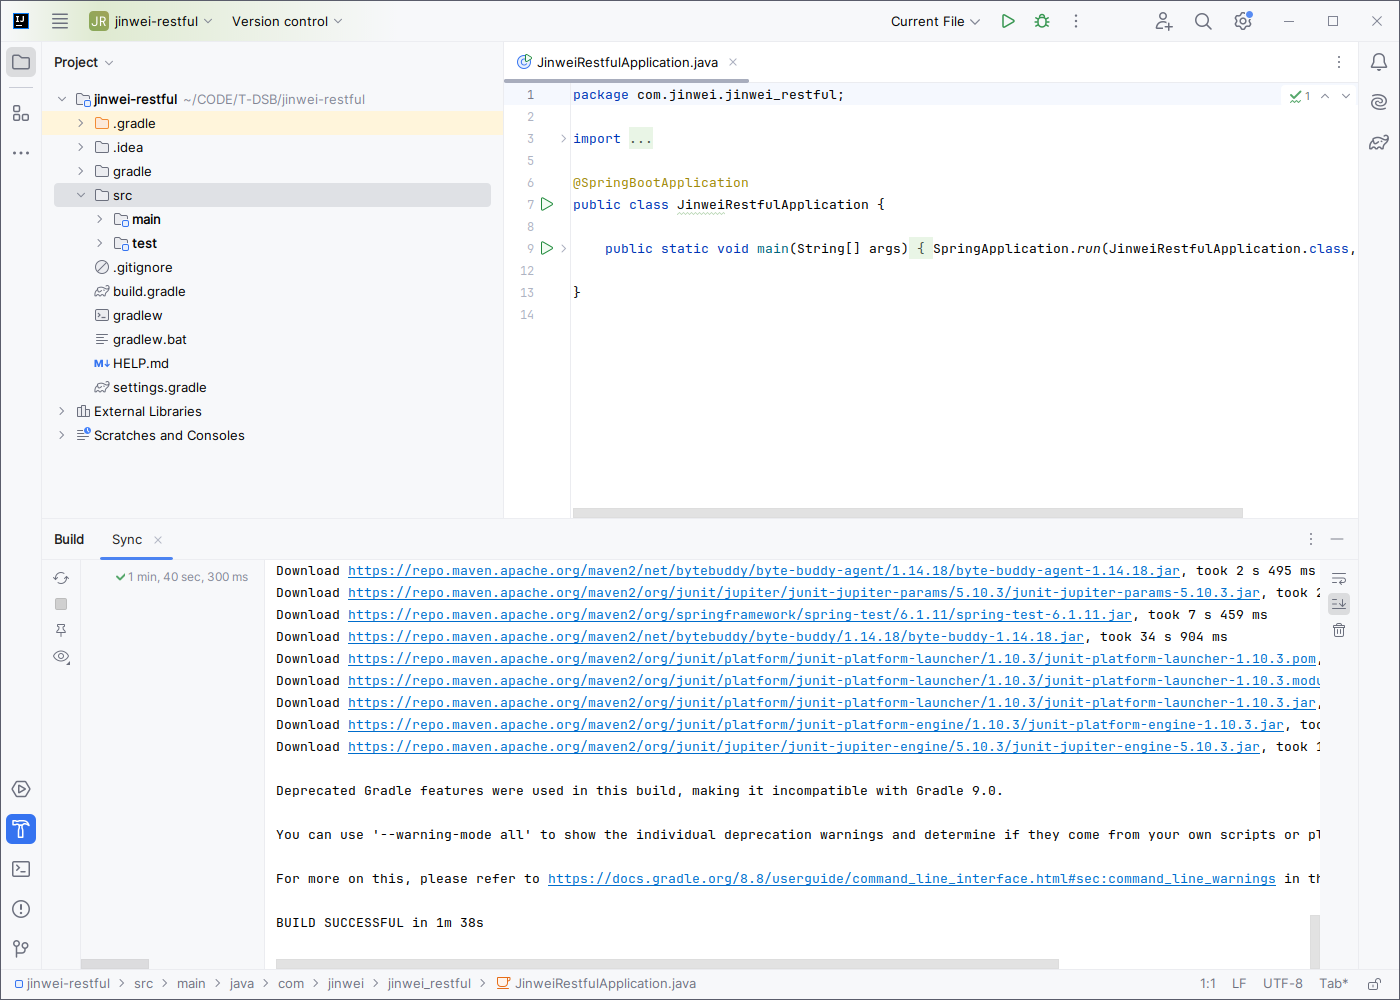
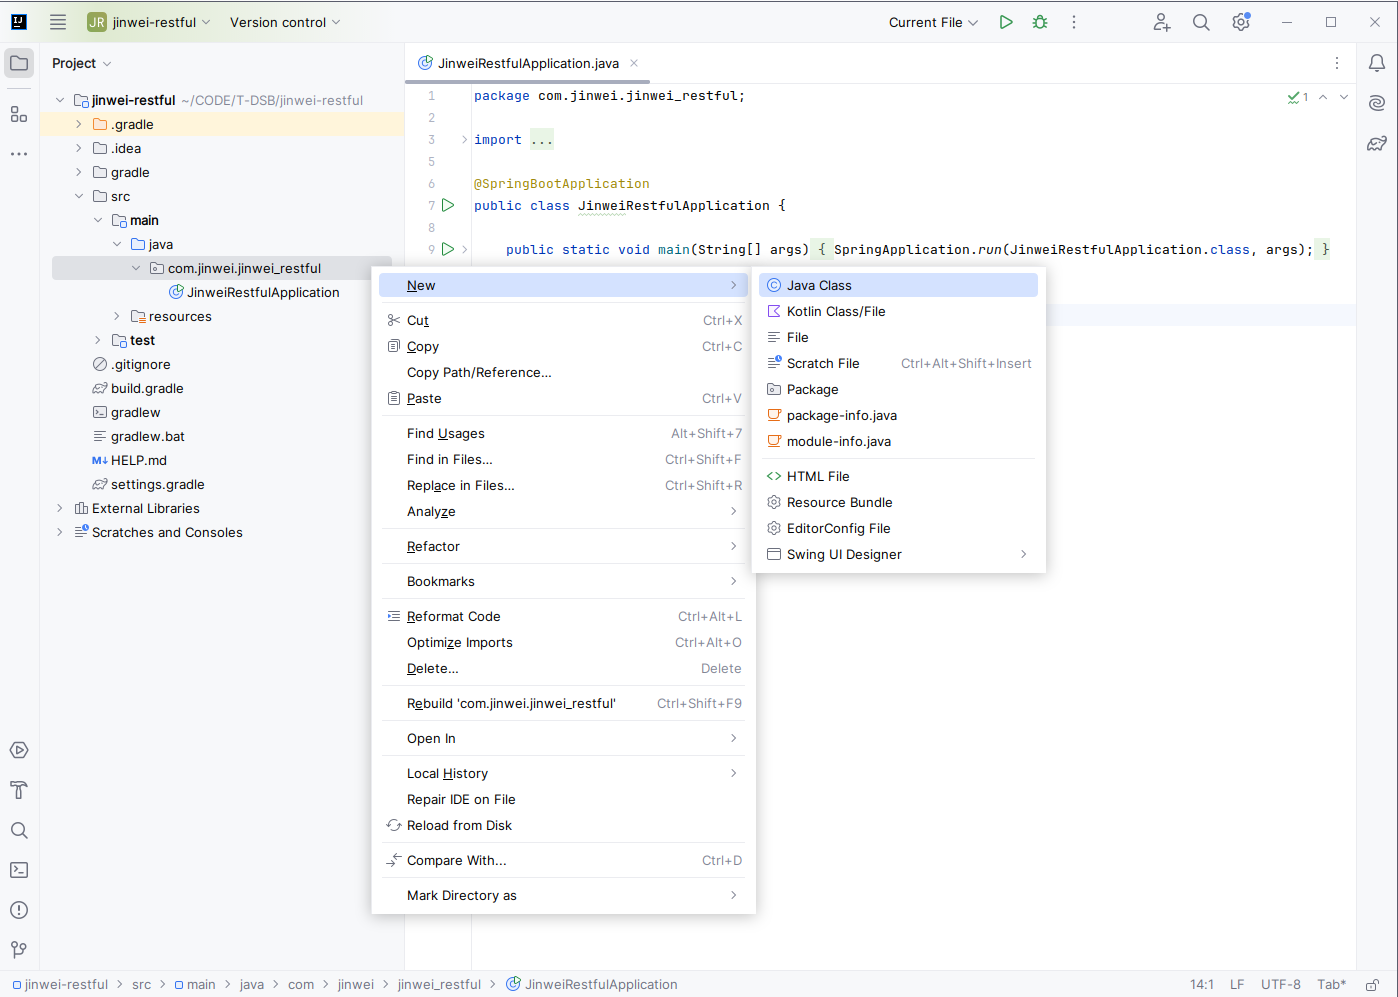
DockerSpringBoot010-IDEA-Web-RESTful项目-打jar包并构建Docker容器

diff --git a/linuxDoc/DockerSpringBoot008-IDEA-SpringBoot-Web-RESTful项目构建.md b/linuxDoc/DockerSpringBoot008-IDEA-SpringBoot-Web-RESTful项目构建.md
@@ -1,0 +1,168 @@
+# DockerSpringBoot008-IDEA-SpringBoot-Web-RESTful项目构建
+lin-jinwei, FaQianApp
+
+注意，未授权不得擅自以盈利方式转载本博客任何文章。
+
+---
+
+Code: [../code](../code)
+
+## Spring Initializr 构建项目
+
+![alt text](image-147.png)
+
+## 下载解压
+
+![alt text](image-148.png)
+
+![alt text](image-149.png)
+
+![alt text](image-150.png)
+
+## IDEA 打开
+
+![alt text](image-151.png)
+
+![alt text](image-152.png)
+
+设置好SDK=JDK17：
+
+
+## Gradle自动预处理并导入项目
+![alt text](image-153.png)
+![alt text](image-154.png)
+
+预处理完成后导入项目：
+![alt text](image-155.png)
+
+接下来就是导入依赖包的过程，该过程主要是通过下载完成：
+![alt text](image-156.png)
+
+## Gradle导入项目完成
+![alt text](image-157.png)
+
+## 修改项目代码
+
+
+### 1. 创建访问处理类： Get1.java
+
+![alt text](image-157.png)
+
+代码：/src/main/java/com/jinwei/jinwei_restful/Get1.java
+
+```java
+package com.jinwei.jinwei_restful;
+
+public record Get1(String message, long id, String content) { }
+```
+
+![alt text](image-158.png)
+
+
+### 2. 创建控制类: UController.java
+
+![alt text](image-159.png)
+
+代码：/src/main/java/com/jinwei/jinwei_restful/UController.java
+
+```java
+package com.jinwei.jinwei_restful;
+
+import java.util.concurrent.atomic.AtomicLong;
+import org.springframework.web.bind.annotation.GetMapping;
+import org.springframework.web.bind.annotation.RequestParam;
+import org.springframework.web.bind.annotation.RestController;
+
+@RestController
+public class UController {
+
+    private static final String template = "Hello, %s!";
+    private final AtomicLong counter = new AtomicLong();
+
+    // 通过@GetMapping定义请求接口API
+    @GetMapping("/gretFun1")
+    // 通过@RequestParam定义请求需要附带的参数，以及参数的默认值
+    public Get1 getFun1(@RequestParam(value = "name", defaultValue = "World") String name) {
+        final String str_message = "Get Return message";
+        // 下面一行定义请求的返回内容
+        return new Get1(str_message, counter.incrementAndGet(), String.format(template, name));
+    }
+}
+
+```
+
+![alt text](image-160.png)
+
+## 回到主函数，点击运行
+
+
+![alt text](image-161.png)
+
+代码：/src/main/java/com/jinwei/jinwei_restful/JinweiRestfulApplication.java
+
+该代码未修改，保持原样：
+
+```java
+package com.jinwei.jinwei_restful;
+
+import org.springframework.boot.SpringApplication;
+import org.springframework.boot.autoconfigure.SpringBootApplication;
+
+@SpringBootApplication
+public class JinweiRestfulApplication {
+
+	public static void main(String[] args) {
+		SpringApplication.run(JinweiRestfulApplication.class, args);
+	}
+
+}
+```
+
+## 编译并成功运行
+
+![alt text](image-162.png)
+
+## 测试
+
+直接访问：
+
+```bash
+http://localhost:8080/getFun1
+```
+![alt text](image-163.png)
+
+带参数访问：
+
+```bash
+http://localhost:8080/getFun1?name=jinwei
+```
+
+![alt text](image-164.png)
+
+打开Postman，选择Get请求，输入请求链接：
+
+```bash
+http://localhost:8080/getFun1
+```
+
+![alt text](image-182.png)
+
+点击 Send 发动，获得下面结果：
+
+![alt text](image-183.png)
+
+继续输入请求链接：
+
+```bash
+http://localhost:8080/getFun1?name=jinwei
+```
+
+获得返回：
+
+![alt text](image-184.png)
+
+## 查看Postman历史请求
+
+点击左边的 History可以查看历史请求：
+
+![alt text](image-185.png)

diff --git a/linuxDoc/DockerSpringBoot009-IDEA-Web-RESTful项目-Postman安装使用与测试.md b/linuxDoc/DockerSpringBoot009-IDEA-Web-RESTful项目-Postman安装使用与测试.md
@@ -1,0 +1,95 @@
+# DockerSpringBoot009-IDEA-Web-RESTful项目-Postman安装使用与测试
+lin-jinwei, FaQianApp
+
+注意，未授权不得擅自以盈利方式转载本博客任何文章。
+
+---
+
+Code: [../code](../code)
+
+## 什么是 Postman?
+
+![alt text](image-166.png)
+
+What is Postman?
+Postman is an API platform for building and using APIs. Postman simplifies each step of the API lifecycle and streamlines collaboration so you can create better APIs—faster.
+
+简单地讲，Postman就是一款非常常用的一个APIs测试工具软件。
+另外，用来测试Java-SpringBoot项目的RESTful请求也是非常的好用。
+
+## Postman官网
+
+![alt text](image-165.png)
+
+## 下载安装Postman
+
+![alt text](image-167.png)
+
+![alt text](image-168.png)
+
+![alt text](image-169.png)
+
+下载完成后，将下载文件复制到安装目录进行解压安装，也可以直接安装：
+
+![alt text](image-172.png)
+
+![alt text](image-173.png)
+
+命令：
+```bash
+tar -zxvf postman-linux-x64.tar.gz 
+```
+
+![alt text](image-174.png)
+
+解压完成：
+
+![alt text](image-175.png)
+
+进入Postman目录：
+
+![alt text](image-176.png)
+
+点击图标启动运行：
+
+![alt text](image-177.png)
+
+如果没有安装UI桌面，则直接进入Postman的解压目录，运行下面命令即可运行Postman：
+
+命令：
+```bash
+./Postman
+```
+
+![alt text](image-178.png)
+
+完整功能需要登陆才能使用：
+
+![alt text](image-179.png)
+
+
+
+## 浏览器访问使用postman
+不想本地安装postman的可以直接网上访问地址使用：
+
+[https://www.postman.com/downloads/?utm_source=postman-home](https://www.postman.com/downloads/?utm_source=postman-home)
+
+![alt text](image-171.png)
+
+![alt text](image-170.png)
+
+## 登录注册Postman
+
+登陆后可以使用更加复杂的内容：
+
+![alt text](image-180.png)
+
+## 测试Springboot项目APIs:
+
+首先打开一个已经在运行的SpringBoot项目：
+
+![alt text](image-181.png)
+
+
+
+

diff --git a/linuxDoc/DockerSpringBoot010-IDEA-Web-RESTful项目-打jar包并构建Docker容器.md b/linuxDoc/DockerSpringBoot010-IDEA-Web-RESTful项目-打jar包并构建Docker容器.md
@@ -1,0 +1,8 @@
+# DockerSpringBoot010-IDEA-Web-RESTful项目-打jar包并构建Docker容器
+lin-jinwei, FaQianApp
+
+注意，未授权不得擅自以盈利方式转载本博客任何文章。
+
+---
+
+Code: [../code](../code)
